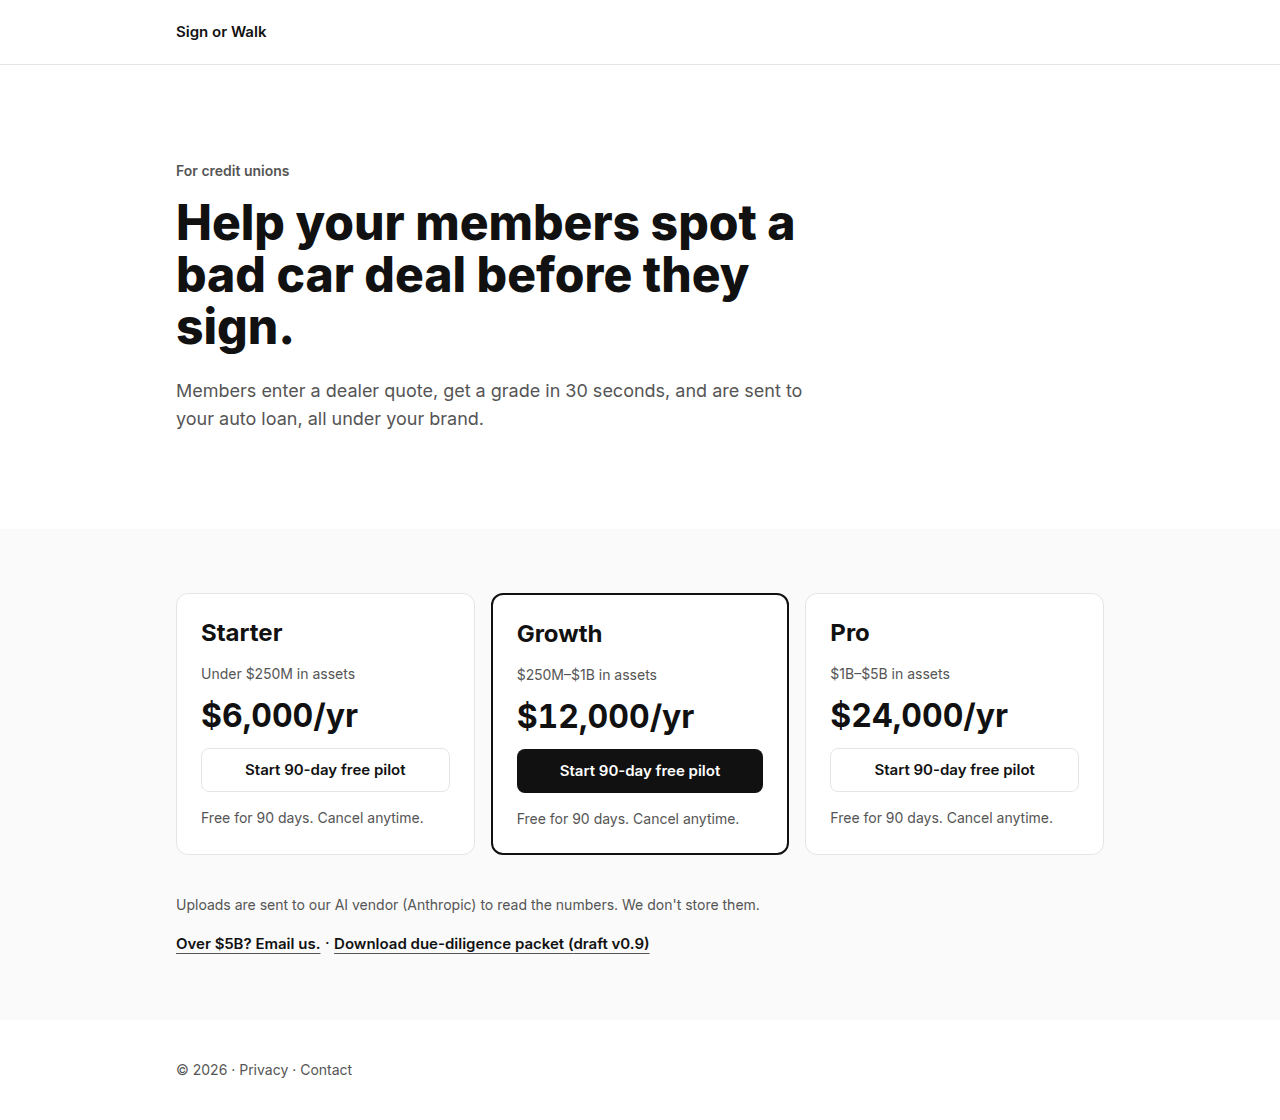
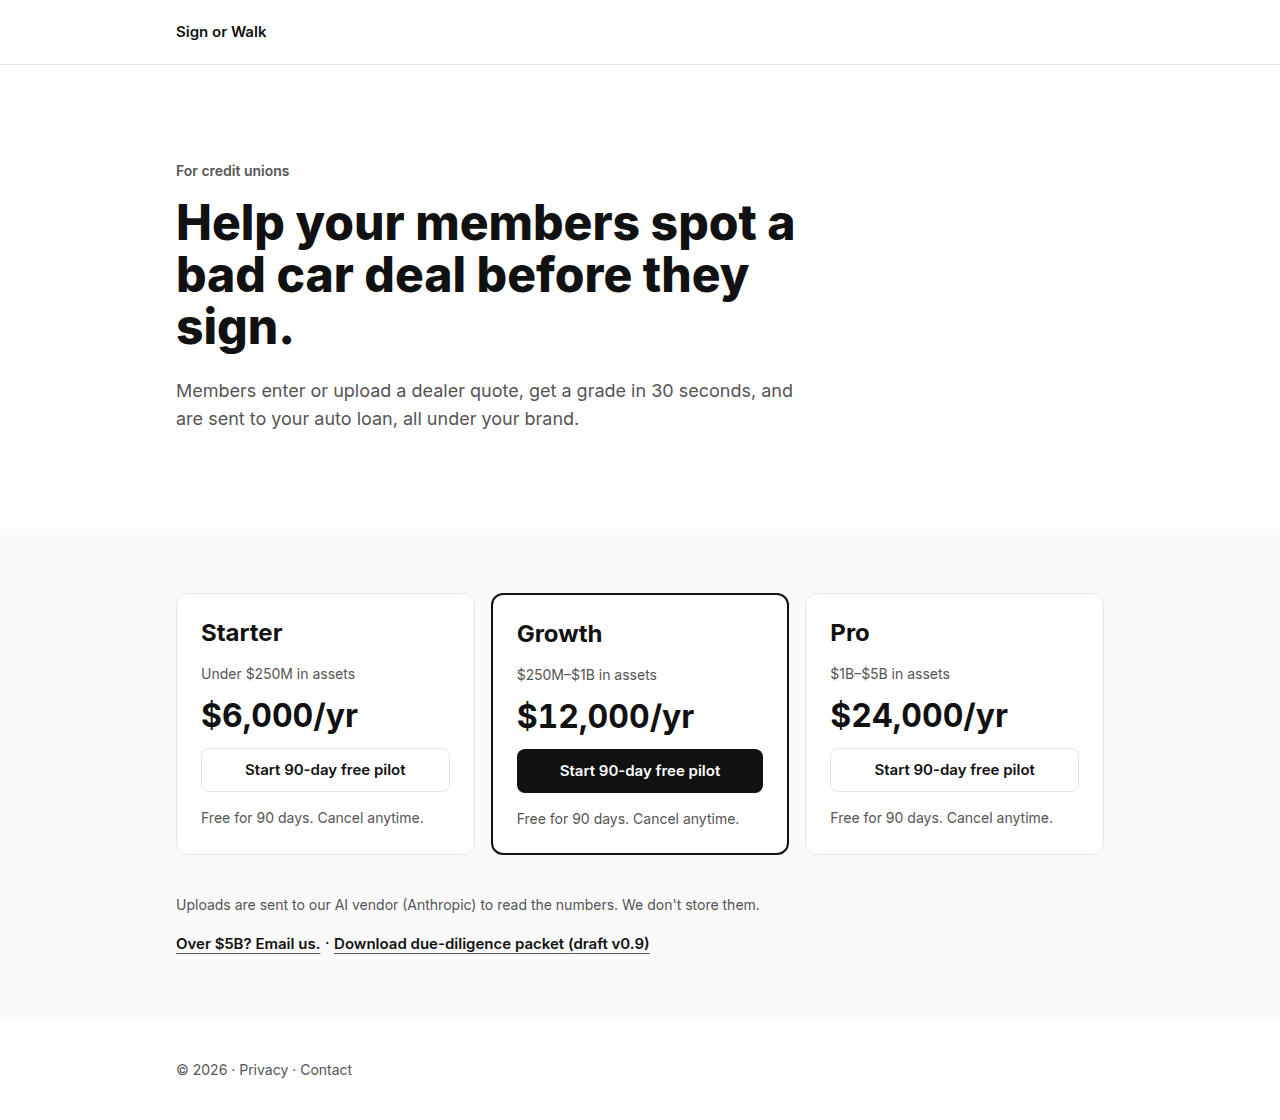
Say members can enter or upload a dealer quote.
The landing value line, page description, and Open Graph description use that sentence. The disclosure under the cards is unchanged.

Changed region(s): [[0.1562, 0.3438, 0.625, 0.4062]]

diff --git a/test/cu-platform.test.ts b/test/cu-platform.test.ts
@@ -195,7 +195,7 @@ test('growth copy and the worksheet route stay on the approved words', () => {
   const actions = readFileSync('src/app/cu/actions.ts', 'utf8');
   const extract = readFileSync('src/app/api/cu/[tenant]/extract/route.ts', 'utf8');
   const form = readFileSync('src/app/cu/[tenant]/CheckForm.tsx', 'utf8');
-  const value = 'Members enter a dealer quote, get a grade in 30 seconds, and are sent to your auto loan, all under your brand.';
+  const value = 'Members enter or upload a dealer quote, get a grade in 30 seconds, and are sent to your auto loan, all under your brand.';
   assert.equal(page.includes('Most chosen'), false);
   assert.equal(/\bfees?\b/i.test(page), false);
   assert.equal(/\bfees?\b/i.test(started), false);

diff --git a/src/app/credit-unions/page.tsx b/src/app/credit-unions/page.tsx
@@ -5,7 +5,7 @@ import { DOCUMENT_VERSION_LABEL, formatUsd, TALK_TO_US_EMAIL, pricedTiers, type 
 
 const PAGE_URL = 'https://signorwalk.com/credit-unions';
 const HEADLINE = 'Help your members spot a bad car deal before they sign.';
-const VALUE_LINE = 'Members enter a dealer quote, get a grade in 30 seconds, and are sent to your auto loan, all under your brand.';
+const VALUE_LINE = 'Members enter or upload a dealer quote, get a grade in 30 seconds, and are sent to your auto loan, all under your brand.';
 
 const ASSETS: Record<PricedTierId, string> = {
   starter: 'Under $250M in assets',
